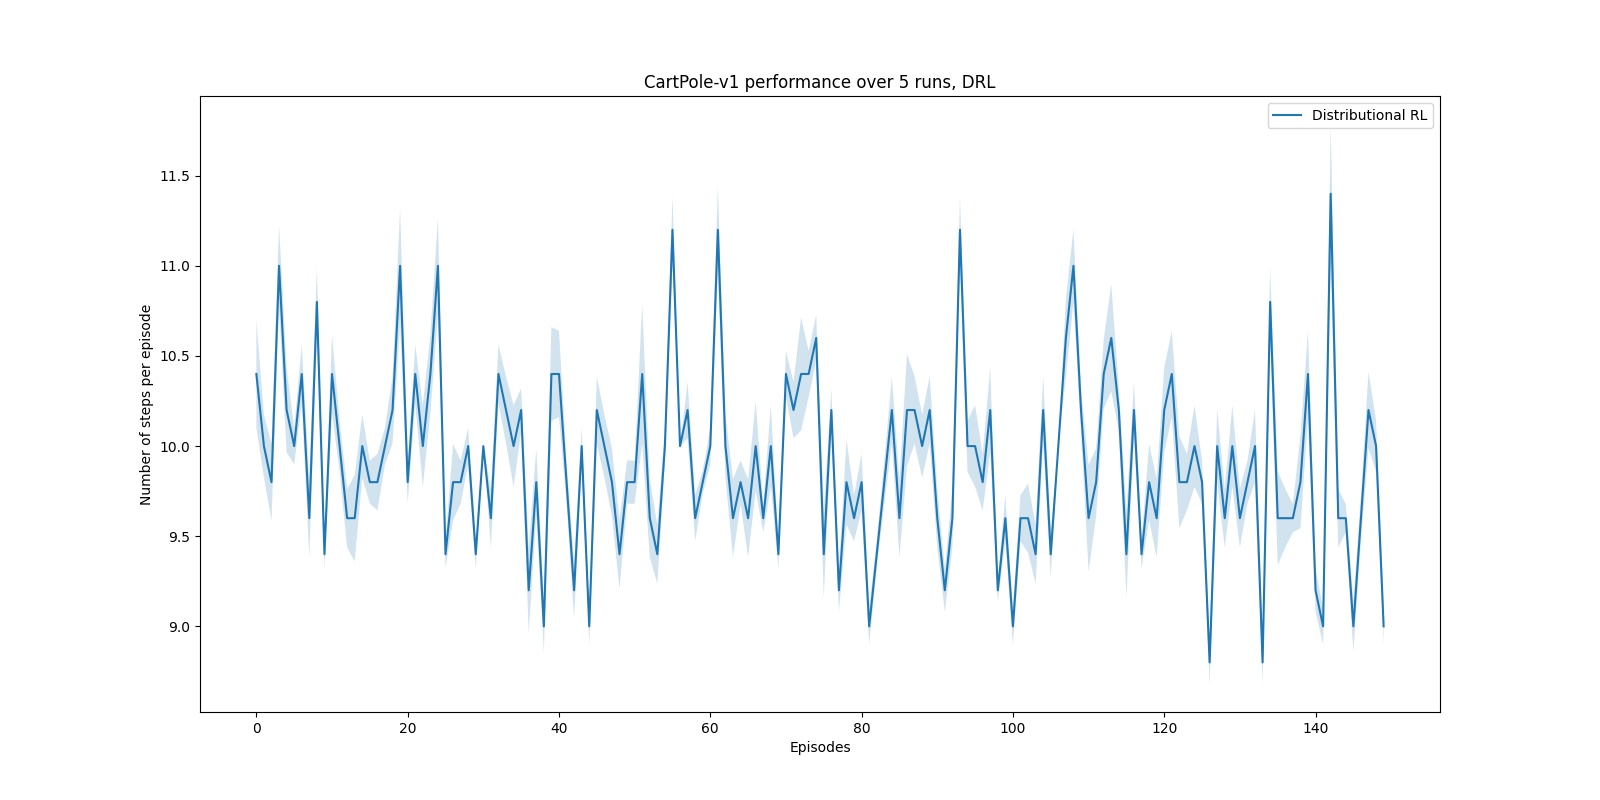
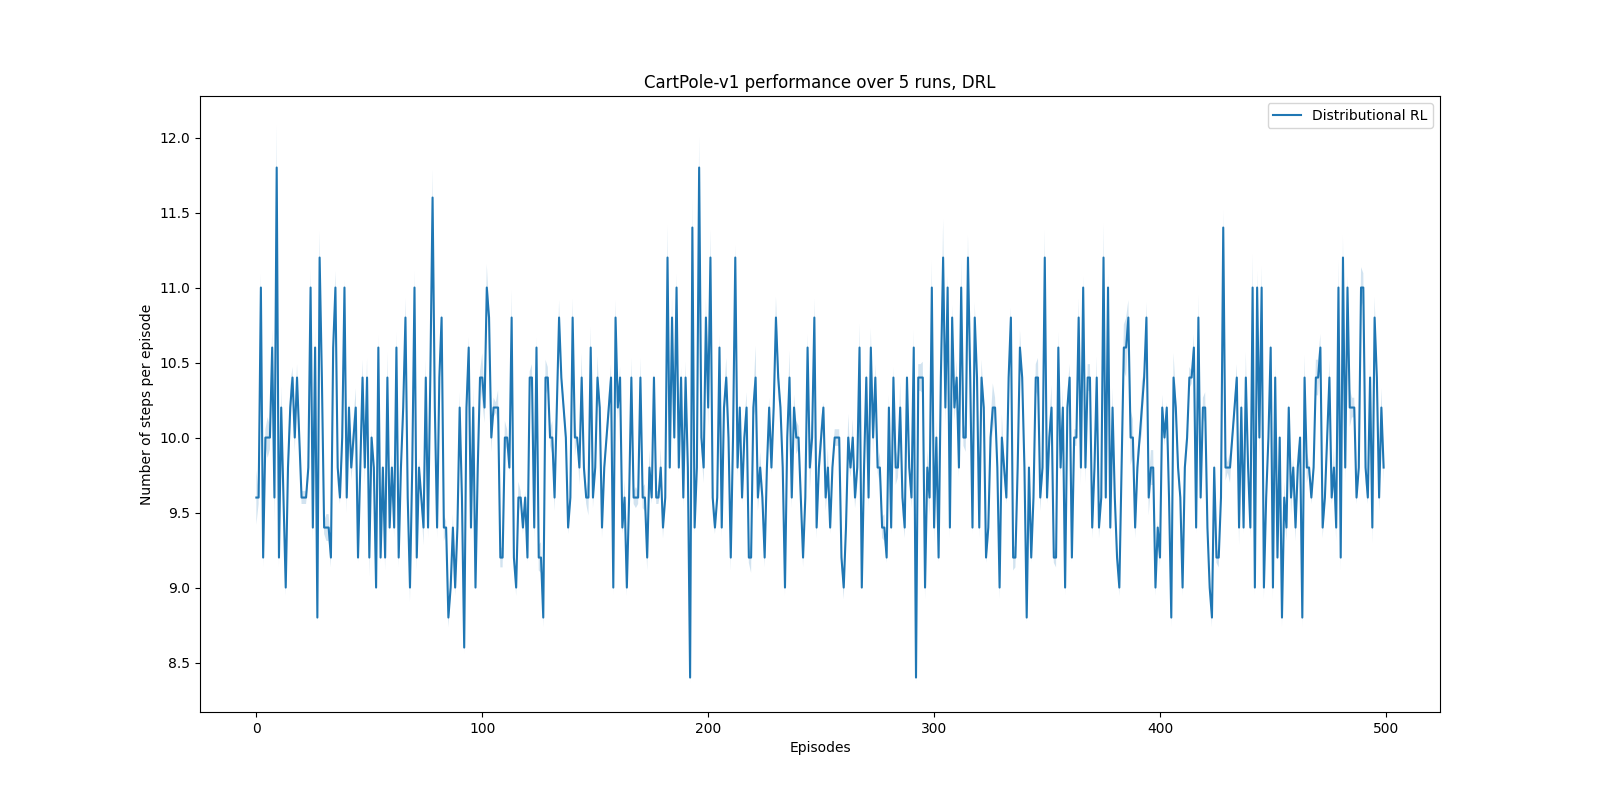
graphs

diff --git a/distributional_v2.py b/distributional_v2.py
@@ -202,14 +202,15 @@ def rolling_average(data, *, window_size=10):
 
 
 def main():
-    TRIALS = 1
-    EPISODES = 100
+    TRIALS = 10
+    EPISODES = 150
 
     env_id = "CartPole-v0"
     env = gym.make(env_id)
-
+    print(f'Running {env_id}')
     data = np.zeros((TRIALS, EPISODES))
     for t in range(TRIALS):
+        print(f'{env_id} trial {t}')
         agent = Agent(env, EPISODES, 'env_id')
         data[t] = agent.train(EPISODES)
 
@@ -244,9 +245,10 @@ def main():
 
     env_id = "CartPole-v0"
     env = RandomActionWrapper(gym.make(env_id))
-
+    print(f'Running {env_id}')
     data = np.zeros((TRIALS, EPISODES))
     for t in range(TRIALS):
+        print(f'{env_id} trial {t}')
         agent = Agent(env, EPISODES, 'env_id')
         data[t] = agent.train(EPISODES)
 
@@ -259,7 +261,7 @@ def main():
     plt.plot(avg, label='Stochastic env')
     # plt.plot(rolling_average(avg))
     plt.legend()  # loc=3, fontsize='small')
-    plt.savefig(f'Pics/Distributional RL on Original and Stochastic Environments {TRIALS} runs.png')
+    plt.savefig(f'Pics/Distributional RL on Original and Stochastic Environments {TRIALS} runs {EPISODES} episodes.png')
 
     plt.show()
 

diff --git a/distributional.py b/distributional.py
@@ -39,9 +39,7 @@ class RandomActionWrapper(gym.ActionWrapper):
             return self.env.action_space.sample()
         return action
 
-env_id = "CartPole-v1"
-env = RandomActionWrapper(gym.make(env_id))
-#
+
 # # Epsilon greedy exploration
 # epsilon_start = 1.0
 # epsilon_final = 0.01
@@ -198,8 +196,8 @@ def update_target(current_model, target_model):
 def compute_td_loss(batch_size):
     state, action, reward, next_state, done = replay_buffer.sample(batch_size)
 
-    state = Variable(torch.FloatTensor(np.float32(state)))
     with torch.no_grad():
+        state = Variable(torch.FloatTensor(np.float32(state)))
         next_state = Variable(torch.FloatTensor(np.float32(next_state)))
     action = Variable(torch.LongTensor(action))
     reward = torch.FloatTensor(reward)
@@ -286,7 +284,12 @@ def train(current_model, target_model):
 
 if __name__ == '__main__':
     TRIALS = 5
-    EPISODES = 150
+    EPISODES = 500
+
+    env_id = "CartPole-v0"
+    env = RandomActionWrapper(gym.make(env_id))
+    # env = gym.make(env_id)
+    #
 
     data = np.zeros((TRIALS, EPISODES))
     # rewards = np.zeros((TRIALS, EPISODES))

diff --git a/policy.py b/policy.py
@@ -42,3 +42,14 @@ def create_epsilon_policy(Q: defaultdict, epsilon: float) -> Callable:
 
     return get_action
 
+
+# Midterm, Final, HWs, Project, Attendance
+weights = [0.17, 0.3, 0.08, 0.4, 0.05]
+grades = [0.9, 0.8, (100+100+95+100+90)/500, 0.8, .8]
+
+weights = np.array(weights)
+grades = np.array(grades)
+
+grade = weights*grades
+print(grade)
+print(np.sum(grade))
